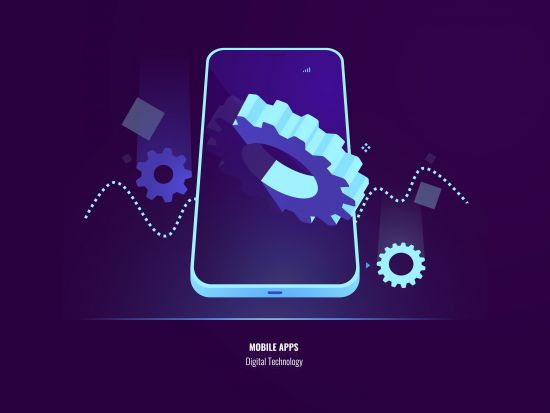
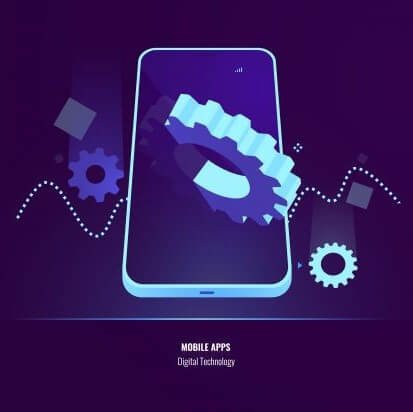
IMP: Redimencionando imagenes a proporcion cuadrada y optimizandolas

diff --git a/src/home/components/PreviewMyselft.jsx b/src/home/components/PreviewMyselft.jsx
@@ -1,6 +1,6 @@
 import React from 'react'
 import './styles/PreviewMyselft.scss';
-import micara from '../../shared/Statics/frontal-min.png';
+import micara from '../../shared/Statics/frontal-min.jpg';
 import { useTranslation } from 'react-i18next';
 
 // eslint-disable-next-line brace-style
@@ -23,7 +23,7 @@ const PreviewMyselft = () => {
             </div>
           </div>
         </div>
-                
+
       </div>
     </div>
   )

diff --git a/src/shared/Header.jsx b/src/shared/Header.jsx
@@ -1,7 +1,7 @@
 import React from "react";
 import { Link } from "react-router-dom";
 import "./styles/Header.scss";
-import Logo from './Statics/frontal-min.png';
+import Logo from './Statics/frontal-min.jpg';
 import i18next from 'i18next';
 import { useTranslation } from "react-i18next";
 
